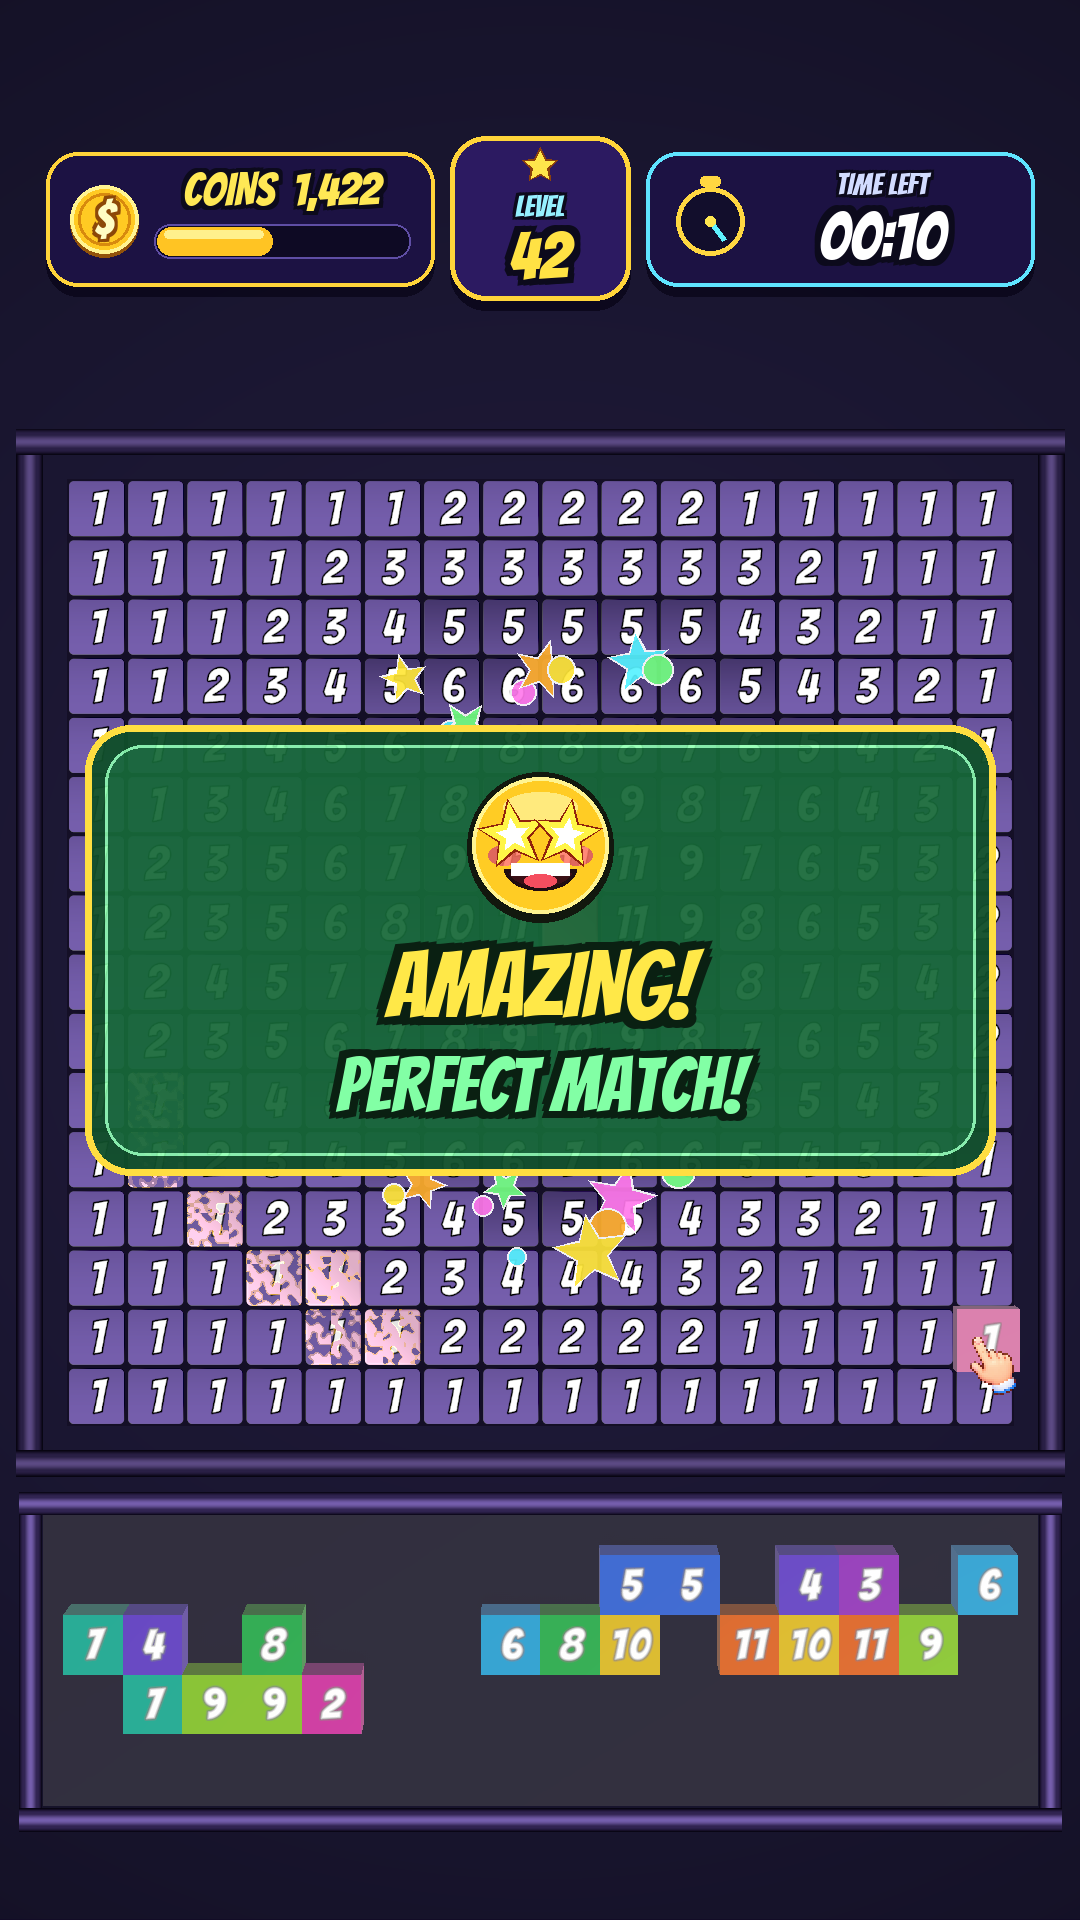
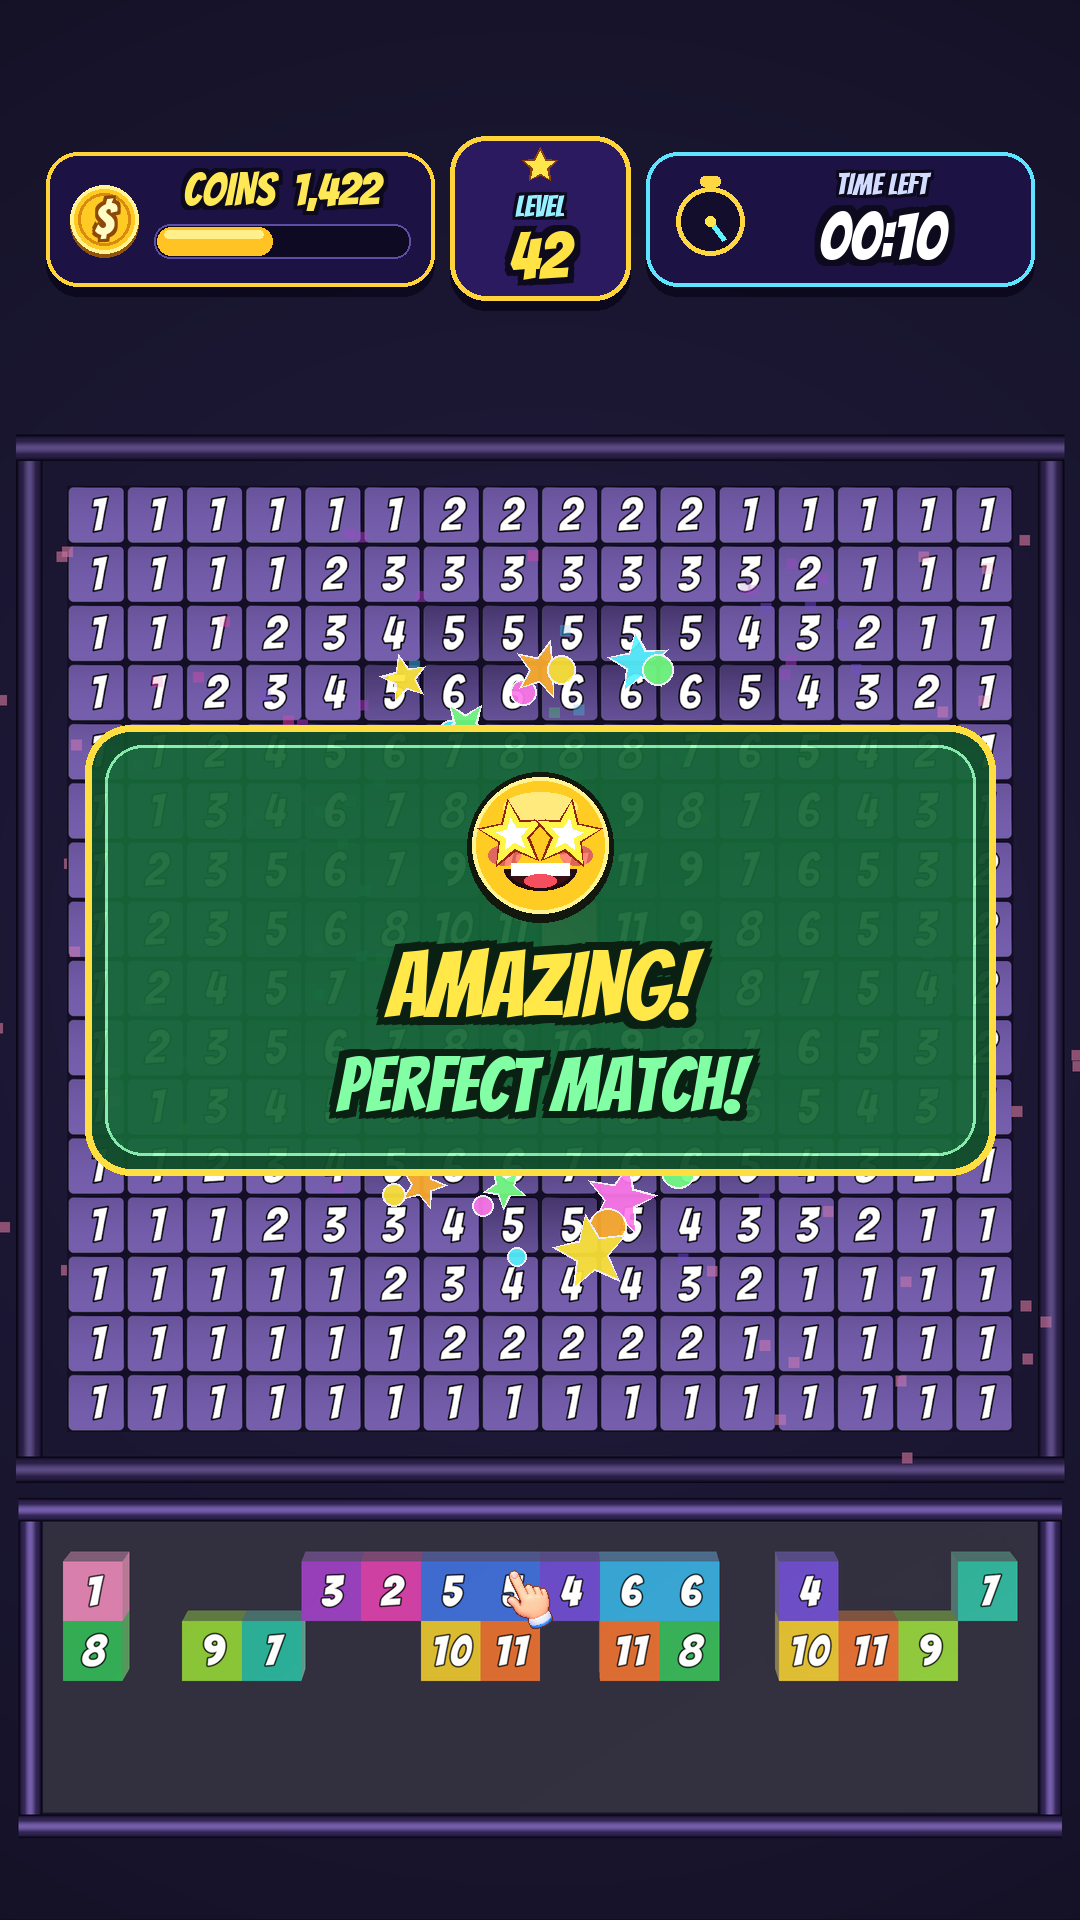
docs & creatives: update storyboard for centered hurry up HUD and particle polish

Changed region(s): [[0.0, 0.2188, 1.0, 0.9062], [0.0, 0.9375, 0.9778, 0.9688], [0.9778, 0.5312, 1.0, 0.5625]]

diff --git a/README.md b/README.md
@@ -17,9 +17,9 @@ A 3D colour-by-number mobile puzzle game built in **Unity 6 (URP)** by **Melisa 
 
 | Hook / Beat | Timestamp | Visual & Audio Breakdown |
 |---|---|---|
-| **1. Dynamic Top HUD & Opening Hook** | `0.0s – 3.0s` | Custom animated top HUD featuring a live **COINS (`1,250 → 2,500`)** reward bar, **LEVEL 42** royal crest, and a ticking **TIME LEFT (`00:14 → 00:00`)** stopwatch. On the first move (`1.53s`), the player drops a tile onto the wrong number cell — triggering an instant error buzzer SFX, screen shake, 3D diamond spark particles, red danger flash, and a center-screen **Sad Emoji (😢) + `"WRONG NUMBER! WATCH OUT!"`** modal. |
-| **2. Radial Wave Reveals & Star-Eyes Praise** | `3.0s – 13.6s` | Deliberate, readable drag-and-drop gameplay completes four colour rings one by one. Each completed group shatters open with a 360° radial wave dissolve (`RevealEffects`) while a center-screen **Star-Struck Emoji (🤩) + `"AMAZING! PERFECT MATCH!"` / `"BRILLIANT! GENIUS MOVE!"`** praise card pops up with star/confetti particles and ascending chimes. |
-| **3. Countdown Alarm & `00:00` Explosion Transition** | `9.0s – 14.3s` | As the timer drops from `00:05` to `00:00`, accelerating clock tick-tock and alarm beeps build tension while the timer flashes red (**`"HURRY UP!"`**). At `00:00` (`13.68s`), a massive 3D fireball & shockwave explosion with 85 flying 3D blocks and stars blasts open into the Endcard. |
+| **1. Dynamic Top HUD & Opening Hook** | `0.0s – 3.0s` | Custom animated top HUD featuring a live **COINS (`1,250 → 2,500`)** reward bar, **LEVEL 42** royal crest, and a ticking **TIME LEFT (`00:14 → 00:00`)** stopwatch (kept 100% visible throughout). On the first move (`1.53s`), the player drops a tile onto the wrong number cell — triggering an instant error buzzer SFX, screen shake, red danger flash, and a center-screen **Sad Emoji (😢) + `"WRONG NUMBER! WATCH OUT!"`** modal (no reward particles on failure). |
+| **2. Radial Wave Reveals & Star-Eyes Praise** | `3.0s – 13.6s` | Deliberate, readable drag-and-drop gameplay completes four colour rings one by one. Each completed group shatters open with a 360° radial wave dissolve (`RevealEffects`) while a center-screen **Star-Struck Emoji (🤩) + `"AMAZING! PERFECT MATCH!"` / `"BRILLIANT! GENIUS MOVE!"`** praise card pops up with star/confetti celebration particles and ascending chimes. |
+| **3. Centered Countdown Alarm & `00:00` Explosion Transition** | `9.0s – 14.3s` | As the timer reaches `00:05`, the HUD cards hide to place a bold, centered red **`"HURRY UP!"`** countdown timer in the middle of the screen. Accelerating clock tick-tock and alarm beeps build tension until `00:00` (`13.68s`), when a massive 3D fireball & shockwave explosion with 85 flying 3D debris blocks and stars blasts open directly into the Endcard. |
 | **4. Higgsfield 3D Endcard & Voiceover CTA** | `14.0s – 18.0s` | Features the 3D **NUMBER MATCH** logo generated with **Higgsfield AI**, the slogan ***"Match Numbers, Create Art!"***, a pulsing 3D green **PLAY NOW** CTA button, **Google Play** & **App Store** badges, and a ***"Play Number Match Now!"*** voiceover announcement. |
 
 ### Keyframe Previews
